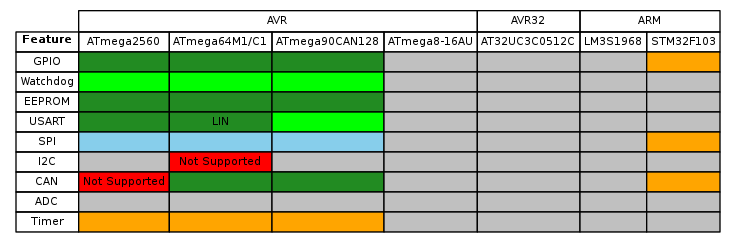
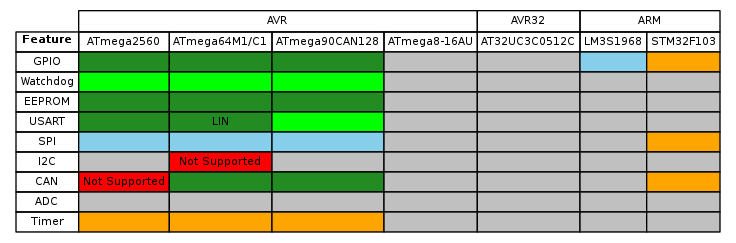
Initial HAL implementation for LM3S1968
Former-commit-id: f76a1f0c7850f4e3c79b5d2c7855cf3232a4178c [formerly 787c3fd5746359668aa5c0cc11c62392f345156c] [formerly 1b99aff117b376d4532e953932b09e42d3fb0827 [formerly a641e8900c9180a43b17849c6fdb7ec49df538ab]]
Former-commit-id: 629a7c902ce72c307bc9bcf966e8f8468520987e [formerly 340e42b6d4a8254a6800e995440e7b74a73e0e4c]
Former-commit-id: 2a729ad5128a21d27fb24c27d0b023dc0aab1fa1

Changed region(s): [[0.7812, 0.2016, 0.875, 0.3169]]

diff --git a/res/arm/embedded-arm/lm3s1968/hal/target_config.hpp b/res/arm/embedded-arm/lm3s1968/hal/target_config.hpp
@@ -1,0 +1,82 @@
+// Copyright (C) 2014  Unison Networks Ltd
+//
+// This program is free software: you can redistribute it and/or modify
+// it under the terms of the GNU General Public License as published by
+// the Free Software Foundation, either version 3 of the License, or
+// (at your option) any later version.
+//
+// This program is distributed in the hope that it will be useful,
+// but WITHOUT ANY WARRANTY; without even the implied warranty of
+// MERCHANTABILITY or FITNESS FOR A PARTICULAR PURPOSE.  See the
+// GNU General Public License for more details.
+//
+// You should have received a copy of the GNU General Public License
+// along with this program.  If not, see <http://www.gnu.org/licenses/>.
+
+/**
+ *
+ * @addtogroup		hal	Hardware Abstraction Library
+ *
+ * @file		target_config.hpp
+ * Provides definitions for to be used in implementations.
+ *
+ * @author 		Jared Sanson
+ *
+ * @date		17-12-2014
+ *
+ * @section Licence
+ *
+ * Copyright (C) 2014  Unison Networks Ltd
+ *
+ * This program is free software: you can redistribute it and/or modify
+ * it under the terms of the GNU General Public License as published by
+ * the Free Software Foundation, either version 3 of the License, or
+ * (at your option) any later version.
+ *
+ * This program is distributed in the hope that it will be useful,
+ * but WITHOUT ANY WARRANTY; without even the implied warranty of
+ * MERCHANTABILITY or FITNESS FOR A PARTICULAR PURPOSE.  See the
+ * GNU General Public License for more details.
+ *
+ * You should have received a copy of the GNU General Public License
+ * along with this program.  If not, see <http://www.gnu.org/licenses/>.
+ *
+ * @brief
+ * This contains device specific definitions for LM3S1968 (Stellaris) devices.
+ * Information such as timer size, interrupt specifications and so on are
+ * defined here.
+ */
+
+#ifndef __TARGET_CONFIG_H__
+#define __TARGET_CONFIG_H__
+
+#if defined(__LM3S1968__)
+	#define NUM_PORTS	8
+	#define NUM_PINS	8
+
+	enum int_bank_t {/*TODO*/};
+	enum port_t {PORT_A, PORT_B, PORT_C, PORT_D, PORT_E, PORT_F, PORT_G, PORT_H};
+	enum pin_t {PIN_0, PIN_1, PIN_2, PIN_3, PIN_4, PIN_5, PIN_6, PIN_7};
+#else
+	#error "HAL not supported for this target"
+#endif
+
+enum Gpio_mode
+{
+	GPIO_OUTPUT,		// Push-pull output
+	GPIO_INPUT,			// Digital input
+
+	GPIO_INPUT_PD,		// Input with pull-down enabled
+	GPIO_INPUT_PU,		// Input with pull-up enabled
+	GPIO_OUTPUT_OD,		// Open-drain output
+	GPIO_INPUT_AN,		// Analog input
+};
+
+// Drive modes
+#define GPIO_DRIVE_2MA 0 // TODO
+#define GPIO_DRIVE_4MA 0
+#define GPIO_DRIVE_8MA 0
+#define GPIO_DRIVE_LIMIT_SLEW 0
+
+
+#endif // __TARGET_CONFIG_H__

diff --git a/res/arm/embedded-arm/lm3s1968/hal/gpio.cpp b/res/arm/embedded-arm/lm3s1968/hal/gpio.cpp
@@ -1,0 +1,112 @@
+// Copyright (C) 2014  Unison Networks Ltd
+//
+// This program is free software: you can redistribute it and/or modify
+// it under the terms of the GNU General Public License as published by
+// the Free Software Foundation, either version 3 of the License, or
+// (at your option) any later version.
+//
+// This program is distributed in the hope that it will be useful,
+// but WITHOUT ANY WARRANTY; without even the implied warranty of
+// MERCHANTABILITY or FITNESS FOR A PARTICULAR PURPOSE.  See the
+// GNU General Public License for more details.
+//
+// You should have received a copy of the GNU General Public License
+// along with this program.  If not, see <http://www.gnu.org/licenses/>.
+
+/********************************************************************************************************************************
+ *
+ *  FILE: 		gpio.c
+ *
+ *  SUB-SYSTEM:		hal
+ *
+ *  COMPONENT:		hal
+ *
+ *  AUTHOR: 		Jared Sanson
+ *
+ *  DATE CREATED:	17-12-2014
+ *
+ *	This is the implementation for gpio for the LM3S1968 series microcontrollers
+ *
+ ********************************************************************************************************************************/
+
+#include "<<<TC_INSERTS_H_FILE_NAME_HERE>>>"
+
+#include "target_config.hpp"
+
+#include <stdio.h>
+#include <hal/hal.hpp>
+#include <hal/gpio.hpp>
+
+
+
+Gpio_pin::Gpio_pin(IO_pin_address address)
+{
+	pin_address = address;
+}
+
+Gpio_pin::~Gpio_pin()
+{
+	// Don't need to do anything
+}
+
+Gpio_io_status Gpio_pin::set_mode(Gpio_mode mode)
+{
+	switch (mode)
+	{
+		case GPIO_OUTPUT:
+		{
+			break;
+		};
+
+		case GPIO_OUTPUT_OD:
+		{
+			break;
+		};
+
+		case GPIO_INPUT:
+		{
+			break;
+		};
+
+		case GPIO_INPUT_PD:
+		{
+			break;
+		};
+
+		case GPIO_INPUT_PU:
+		{
+			break;
+		};
+
+		case GPIO_INPUT_AN:
+		{
+			break;
+		};
+
+
+		default:
+			return GPIO_ERROR;
+	}
+}
+
+Gpio_input_state Gpio_pin::read(void)
+{
+	return GPIO_I_ERROR;
+}
+
+Gpio_io_status Gpio_pin::write(Gpio_output_state value)
+{
+	return GPIO_ERROR;
+}
+
+Gpio_interrupt_status Gpio_pin::enable_interrupt(Gpio_interrupt_mode mode, void (*func_pt)())
+{
+	return GPIO_INT_OUT_OF_RANGE;
+}
+
+Gpio_interrupt_status Gpio_pin::disable_interrupt(void)
+{
+	return GPIO_INT_OUT_OF_RANGE;
+}
+
+

diff --git a/res/arm/embedded-arm/lm3s1968/hal/hal.cpp b/res/arm/embedded-arm/lm3s1968/hal/hal.cpp
@@ -1,0 +1,60 @@
+// Copyright (C) 2011  Unison Networks Ltd
+//
+// This program is free software: you can redistribute it and/or modify
+// it under the terms of the GNU General Public License as published by
+// the Free Software Foundation, either version 3 of the License, or
+// (at your option) any later version.
+//
+// This program is distributed in the hope that it will be useful,
+// but WITHOUT ANY WARRANTY; without even the implied warranty of
+// MERCHANTABILITY or FITNESS FOR A PARTICULAR PURPOSE.  See the
+// GNU General Public License for more details.
+//
+// You should have received a copy of the GNU General Public License
+// along with this program.  If not, see <http://www.gnu.org/licenses/>.
+
+/********************************************************************************************************************************
+ *
+ *  FILE: 		hal.c
+ *
+ *  LIBRARY:		hal
+ *
+ *  AUTHOR: 		Jared Sanson
+ *
+ *  DATE CREATED:	17-12-2014
+ *
+ *	Provides important common functionality required to allow using the ValleyForge HAL.
+ *
+ ********************************************************************************************************************************/
+
+// INCLUDE THE MATCHING HEADER FILE.
+
+#include "<<<TC_INSERTS_H_FILE_NAME_HERE>>>"
+
+// INCLUDE IMPLEMENTATION SPECIFIC HEADER FILES.
+
+#include <io.h>
+
+// DEFINE PRIVATE MACROS.
+
+// DEFINE PRIVATE TYPES AND STRUCTS.
+
+// DECLARE PRIVATE GLOBAL VARIABLES.
+
+// DEFINE PRIVATE FUNCTION PROTOTYPES.
+
+// IMPLEMENT PUBLIC FUNCTIONS.
+
+void int_on(void)
+{
+	// TODO
+}
+
+bool int_off(void)
+{
+	// TODO
+}
+
+// IMPLEMENT PRIVATE FUNCTIONS.
+
+// ALL DONE.
